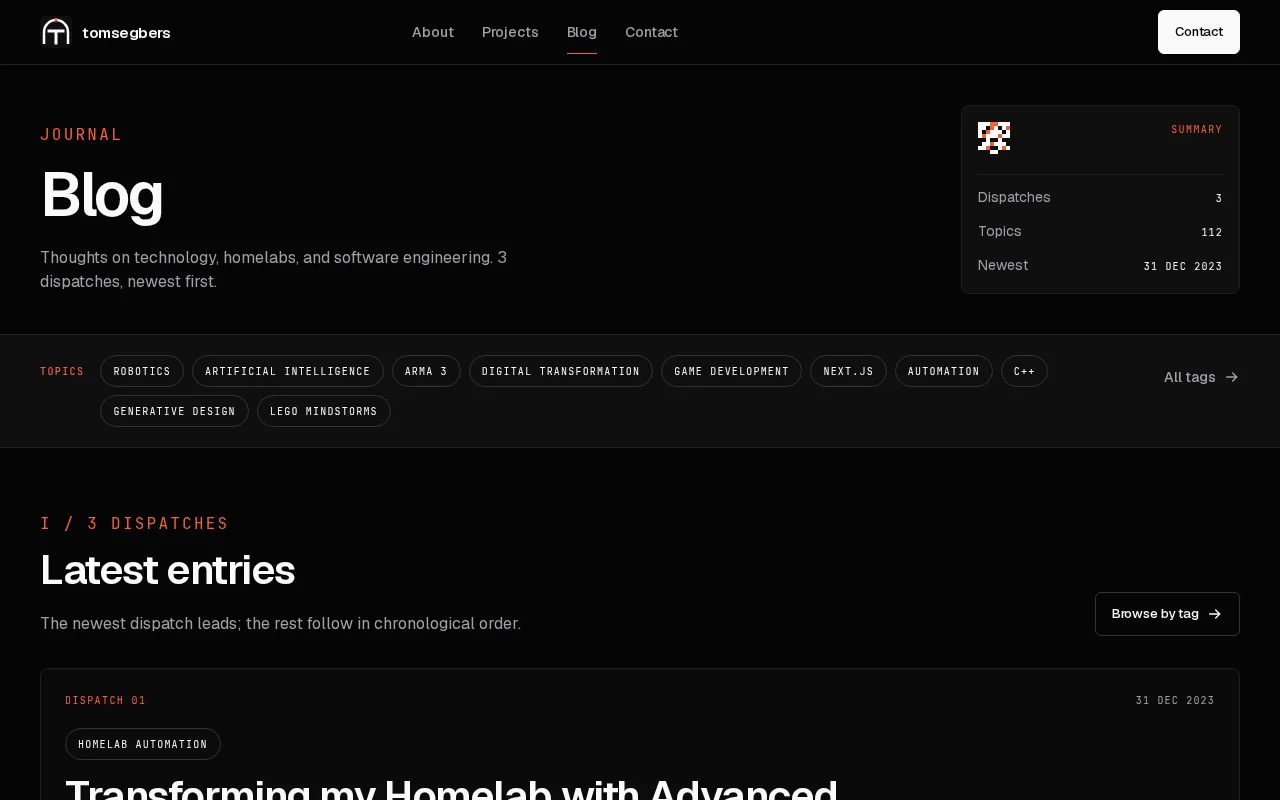
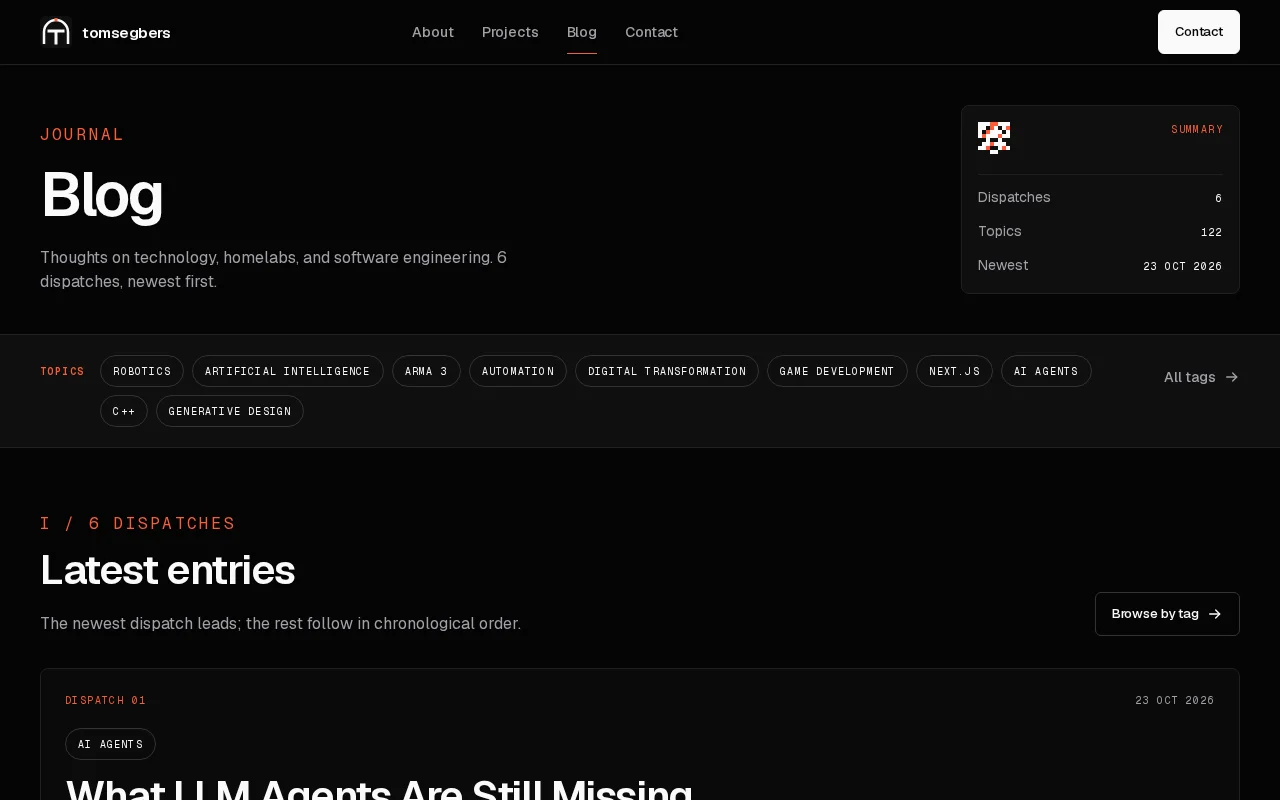
feat(blog): add three new dispatches

diff --git a/e2e/fixtures/expectations.ts b/e2e/fixtures/expectations.ts
@@ -78,7 +78,7 @@ export const COPY = {
 } as const
 
 /** Posts published under `content/blog/` (asserted as an exact count). */
-export const BLOG_POST_COUNT = 3
+export const BLOG_POST_COUNT = 6
 
 /** Project entries expected under `content/projects/` (asserted as a floor). */
 export const MIN_PROJECT_COUNT = 28

diff --git a/content/blog/2026-unraid-declarative-homelab-v4.md b/content/blog/2026-unraid-declarative-homelab-v4.md
@@ -1,0 +1,151 @@
+---
+id: 2026-unraid-declarative-homelab-v4
+title: "Unraid, Declaratively: The Fourth Homelab Iteration"
+articleDate: 2026-02-28
+articleContent: "Version four is not another stack of containers. It is a workflow for keeping Unraid's hand-edited state reviewable, testable, and recoverable without pretending the appliance is NixOS."
+authorName: Tom Segbers
+authorImgSrc: /img/logo.png
+tags:
+  - Unraid
+  - Homelab
+  - Infrastructure as Code
+  - Docker
+  - Home Assistant
+---
+
+# Unraid, Declaratively: The Fourth Homelab Iteration
+
+The fourth iteration of my homelab is not a bigger server. It is a smaller diff.
+
+The [second iteration](/blog/entry/2020-homelab-v2-the-evolution-of-my-homelab-journey-second-edition) was about learning what hardware could do. The [third](/blog/entry/2024-homelab-v2-transforming-homelab-with-advanced-automation) was about adding services: containers, storage, monitoring, automation, and enough moving parts to make a dashboard feel like progress.
+
+The fourth is about operating the result. Not adding another stack, but making the existing one reviewable, testable, and recoverable.
+
+That is harder than it sounds, because Unraid is an appliance, not a declarative operating system. You cannot point a flake at it and rebuild the array from a lock file. The web UI, the boot USB, the license, the disk assignments, and the array itself are part of the product. A lot of the server is deliberately stateful, and pretending otherwise is how people lose data.
+
+But a surprising amount of what makes the server mine is text. Docker Compose files, Docker XML templates, user scripts, and Home Assistant configuration can live in Git. So can the validation around them. The repository does not own the server. It owns the text that describes selected parts of it.
+
+## What “declarative” can mean on an appliance
+
+The useful distinction is between layers:
+
+- **The appliance layer:** Unraid itself, the array and parity, shares, the license, the boot USB, hardware passthrough, and the web UI. This stays manual and rare. It gets a runbook, not a fantasy.
+- **The text layer:** Compose projects, Docker XML templates, user scripts, and authored Home Assistant YAML. This belongs in Git, with reviewable changes and validation.
+- **The runtime layer:** appdata, databases, Home Assistant's `.storage`, logs, media, and VM disks. This gets backed up. It does not belong in a configuration repository.
+- **The secret layer:** server-side environment files and credentials. The repository records their shape, never their values.
+
+The repository layout reflects that split:
+
+```text
+configs/
+  docker-compose/   # one directory per Compose project
+  docker-templates/ # Unraid Docker XML templates
+  scripts/          # User Scripts
+  homeassistant/
+    desired/        # authored, pushable YAML
+    snapshot/       # generated from .storage, read-only
+```
+
+The Nix flake in this repository is easy to misunderstand. It does not make Unraid declarative. It packages the command-line tools and pins the versions used to inspect, validate, and sync the server. Nix is the workbench, not the appliance.
+
+That distinction matters. A declarative workflow is not a property of the operating system. It is a property of how you change it.
+
+## The loop: pull, edit, validate, dry-run, apply
+
+The workflow starts by pulling the current server state into the repository. The server may be newer than the last commit, and a local edit based on a stale copy is just a confident way to undo a change made since the last pull.
+
+```bash
+nix run .#backup
+nix run .#backup -- --check
+```
+
+`--check` is a dry run. It compares content with checksums and ignores owner, group, permissions, and timestamps, so a directory mtime cannot masquerade as drift. Only real file transfers and deletions count.
+
+Then I edit the text. A Compose image tag, a volume mapping, a script, a Home Assistant automation. The change is made in the repository, not first in the live UI. That is the part that turns a server into something I can review.
+
+Validation comes next:
+
+```bash
+nix flake check
+nix run .#scan -- --quiet
+```
+
+`nix flake check` runs the formatting check, parses every YAML file, validates each Compose project with `docker compose config` and dummy environment values, and checks the Home Assistant layout against its pinned version. `scan` runs a static security scan and checks pinned image versions for drift. Neither command proves the service will behave correctly, but they catch the boring failures before they reach the server.
+
+The push is deliberately two steps:
+
+```bash
+nix run .#update
+nix run .#update -- --apply
+```
+
+The first command is a dry run. The second one actually mirrors the repository to the server. Mirroring is the important word: `rsync --delete` removes files on the server when they disappear locally. That is what makes the repository a source of truth instead of an ever-growing pile of leftovers. It is also why the dry run is not a formality.
+
+Server-side `.env` files are excluded from the push. The repository carries `.env.example` files and placeholders; the real values stay on the server. Secrets are the one place where “the repo is the source of truth” would be actively dangerous.
+
+A deployment is not finished when `rsync` exits zero. It is finished when the service is healthy and the change is committed. Those are different claims, and the gap between them is where most homelab surprises live.
+
+## Home Assistant is its own problem
+
+Home Assistant is the clearest example of why “just put it in Git” is not a complete strategy. It is a UI-first system. The UI writes state into `.storage`, integrations own registries, and the YAML files are only part of the picture.
+
+The repository splits the problem in two:
+
+- `desired/` is authored configuration that can be pushed back.
+- `snapshot/` is generated from the live `.storage` registries and dashboards. It is read-only in the repository and must never be hand-edited.
+
+The commands follow that split:
+
+```bash
+nix run .#ha-check
+nix run .#ha-deploy
+nix run .#ha-deploy -- --apply
+nix run .#ha-drift
+nix run .#ha-pull
+```
+
+`ha-check` runs Home Assistant's own `check_config` against a staged copy of the authored configuration, using a throwaway secrets file. The live configuration directory is not touched. `ha-deploy` runs the same check before pushing and refuses to continue if it fails. `ha-drift` compares the live instance against the committed snapshot. `ha-pull` refreshes both sides.
+
+The snapshot is not a full backup of the Home Assistant database. It is a readable model of the parts that tend to drift: areas, entities, devices, dashboards, customizations, and resources. The database, secrets, custom components, and media remain runtime state and are outside this mirror.
+
+The most useful check is not a diff. It is a restore drill. A staged configuration, the sealed identity registries, and the real secrets are used to boot a throwaway Home Assistant container on a separate port. The drill waits for `check_config` to pass and for the frontend to answer. The live instance and its port are never touched.
+
+A backup you have never restored is a rumour. The drill is how the rumour becomes a fact.
+
+## Secrets and the mirror
+
+The mirror is intentionally incomplete.
+
+Server-side `.env` files stay on the server. Home Assistant `secrets.yaml` stays on the server. Private keys, runtime tokens, and anything that only exists to make a service start are outside the sync path. The repository contains examples and placeholders so the shape of the configuration is visible without exposing the values.
+
+That boundary has to be enforced by exclusion rules, not by memory. A mirror with `--delete` is a useful tool precisely because it is ruthless. The same quality makes it dangerous if a secret happens to live in the wrong directory.
+
+The rule I keep coming back to is simple: the repository should contain the decisions, not the keys.
+
+## What I would not put in Git
+
+Not every part of a homelab wants to be text.
+
+I would not try to manage the array assignments, the disk layout, the Unraid license, the boot USB, VM disk images, appdata databases, logs, media, TLS private keys, or runtime secrets from this repository. Some of that is too large. Some of it is too sensitive. Some of it is too specific to the machine.
+
+A repository that tries to own all of it becomes a backup system with worse ergonomics.
+
+The goal is not to make Unraid immutable. The goal is to make the mutable parts explainable.
+
+## What changed in version four
+
+The earlier iterations were about capability. This one is about boundaries.
+
+1. **Pull before push.** The server may know something the repository does not.
+2. **Dry-run by default.** Mirroring deletes. Review the plan before applying it.
+3. **Generated state is not source.** Snapshots and exports are evidence, not editing surfaces.
+4. **Secrets never enter the mirror.** The repo carries the shape, the server carries the value.
+5. **Validate with the same toolchain everywhere.** A local pass and a CI pass should not use different versions of the truth.
+6. **Test the restore, not just the backup.** A restore drill is maintenance.
+7. **Keep a manual runbook for the appliance layer.** Some things should stay deliberate.
+
+The result is not a server that never needs a web UI. I still use the UI. The difference is that when a change matters, I can explain where it came from, what it will touch, and how to put it back.
+
+“Declarative” is not a binary. It is a direction. On an appliance like Unraid, the honest version is a small, well-guarded text layer around a stateful core — enough structure to make the server reviewable, and enough humility to leave the rest alone.
+
+That is the fourth iteration. Not more services. A better way to change them.

diff --git a/content/blog/2025-falling-for-nix.md b/content/blog/2025-falling-for-nix.md
@@ -1,0 +1,117 @@
+---
+id: 2025-falling-for-nix
+title: "Falling for Nix: One Flake, Three Machines"
+articleDate: 2025-12-31
+articleContent: "I expected a package manager and found a way to describe three machines as one reviewable system. The learning curve was real; so was the payoff."
+authorName: Tom Segbers
+authorImgSrc: /img/logo.png
+tags:
+  - NixOS
+  - Nix
+  - Declarative Configuration
+  - Linux
+---
+
+# Falling for Nix: One Flake, Three Machines
+
+For a long time, setting up a machine was a test of memory.
+
+I knew which packages to install, which configuration files to edit, which service to enable, and which fix I had applied the last time something broke. The knowledge lived in shell history, browser bookmarks, and the part of my brain that wakes up when a laptop is misbehaving. It worked. It also meant every machine was a slightly different version of the same story.
+
+I did not start using Nix because I wanted a new hobby. I started because I wanted fewer surprises.
+
+By the end of 2025, my desktop, laptop, and home server are described by one flake. That sentence sounds modest. For me it is the biggest change in how I think about machines since I stopped installing Linux from scratch.
+
+## The first surprise: it is not just a package manager
+
+Nix is a package manager in the same way Git is a folder watcher. The package part is real, but it is not the interesting part.
+
+The interesting part is that a Nix expression describes a build, and a flake describes a whole system: inputs, packages, modules, users, services, and the small policy decisions that normally live in a wiki page nobody updates. The lock file pins the inputs. The build produces a closure. The machine activates a generation.
+
+The commands are almost disappointingly plain:
+
+```bash
+nix flake check
+sudo nixos-rebuild switch --flake .#<host>
+```
+
+The first command asks whether the description is internally consistent. The second makes the machine match it. The angle brackets are doing real work. I do not want a command that can accidentally target the wrong machine.
+
+The first week felt less like learning a tool and more like learning a new grammar. I copied snippets, misread option names, and hit evaluation errors that pointed at three files I had never opened. The error messages were the tutorial. I did not enjoy all of it.
+
+Then something clicked.
+
+## The mental model that finally made sense
+
+The old model was a sequence of actions: install this, edit that, enable the other thing, restart, hope.
+
+The Nix model is a set of facts: this machine has these packages, this service is enabled with this configuration, this user owns this file, this secret is available at activation, this is the version of nixpkgs the result was built against.
+
+Once I stopped trying to translate shell commands one-for-one, the errors became less mysterious.
+
+- A package is an input to a build, not a thing I install by hand.
+- A module is a policy, not a script.
+- A generation is a rollback point, not a victory lap.
+- A lock file is a boundary between “works today” and “worked in March.”
+
+That last one matters more than I expected. A flake does not promise that the world will never change. It promises that the change is explicit.
+
+## What one flake looks like for me
+
+I have three hosts: a desktop, a laptop, and a server. They share a baseline, and each one adds the parts that belong to its role. The desktop gets the graphical environment and the development tools. The laptop gets its hardware quirks and a newer kernel. The server gets the services and the storage. The differences are small enough to read in one sitting.
+
+The shared baseline is the important part. Firewall defaults, the user account, the shell, the time zone, the Nix settings, and the common system modules are defined once. A host file is a delta, not a photocopy.
+
+Home Manager handles the user layer. My shell, Git configuration, editor settings, terminal, browser policies, and a long list of small preferences are generated from modules. I have not edited my `.zshrc` by hand in months. I am not brave; the file is generated.
+
+DevShells turned out to be just as useful as the system configuration. A project can declare the compiler, formatter, language server, and command-line tools it expects. `direnv` loads the shell when I enter the directory. The same project gets the same toolchain on every machine, and a new machine does not need a separate install ritual before it can build anything.
+
+Secrets are handled with `sops-nix`. The encrypted material lives with the configuration; the private key lives on the machine; the secret is decrypted at activation and exposed at a path the service expects. That is not a claim that secrets are now risk-free. It is a claim that the boundary is visible and does not depend on a forgotten `.env` file in a home directory.
+
+A local binary cache made the rebuilds tolerable. Without it, the purity is real but so is the waiting. With it, a rebuild is usually a few minutes and sometimes less. This is the unglamorous part of the story: a good build graph still needs good infrastructure around it.
+
+## What I like now
+
+The first thing I like is that a change is reviewable. I can look at a diff and see that a package moved, a service option changed, or a module gained a new rule. A diff is a better memory than a terminal scrollback.
+
+The second is that a new machine is mostly a mapping exercise. The hardware file still comes from the machine, because hardware is stubborn and full of exceptions. Everything above that layer is a choice I can read, copy, and adjust. The first boot is not a blank page.
+
+The third is rollback. When a rebuild goes wrong, the previous generation is still there. That does not make me careless, but it does make the system feel less fragile. The escape hatch is part of the design, not an admission that the design failed.
+
+The fourth is development environments. I used to keep a mental list of tools for each project. Now the project keeps the list. That is a small change with a large effect on how often I wonder why a build behaves differently on another machine.
+
+The fifth is the quiet one: less folklore. When something breaks, I can point at a revision instead of a habit. When I want to know why a machine has a package, I can follow the module that put it there. The configuration is not perfect documentation, but it is a much better starting point than “I think I installed that in 2022.”
+
+## The cost is real
+
+I would not recommend Nix to someone who wants a faster way to install a browser. The learning curve is real, and it is steep in the places that matter.
+
+Nix has a lazy evaluation model, its own language, and error messages that occasionally read like a riddle. Packaging software can be straightforward, and it can also turn into an afternoon of reading upstream build scripts. Build times are better than they used to be, but they are not free. Stateful services still need care, because a database does not become declarative just because its configuration file does.
+
+I still use containers, imperative tools, and plain shell scripts where they fit. Declarative does not mean every byte of runtime state belongs in a Nix file. A configuration that pretends state does not exist is just a configuration that will fail later.
+
+The language is not the hard part forever. The hard part is learning where the boundaries are.
+
+## Rules I would give past me
+
+- Pin the inputs and upgrade them deliberately. “Latest” is not a strategy.
+- Keep modules small and single-purpose. A module called `desktop.nix` that does twelve unrelated things is a future incident.
+- Separate hardware facts from policy. Generated hardware files are not the place to express taste.
+- Use one host as the canary. Read the diff before rolling the change everywhere.
+- Keep plaintext secrets out of the repository and out of the Nix store.
+- Let evaluation fail. Do not `--impure` your way out of a design problem unless you can explain why the impurity is the point.
+- Learn the language. Copy-paste has a ceiling, and the ceiling arrives at the worst possible time.
+- Keep a known-good generation and a recovery path. Confidence is not a backup.
+- Do not declaratively manage data. Manage the system around it, then back the data up separately.
+
+## The part that surprised me
+
+I expected the win to be reproducibility. It is, but that is not the part I feel day to day.
+
+The part I feel is legibility. I can explain how a machine is put together without opening a drawer of old notes. I can hand a configuration to a future version of myself and expect it to make sense. I can change one thing without wondering which machine will disagree.
+
+Nix did not make me love configuration for its own sake. It made the machine legible.
+
+The best compliment I can give it is not that the setup is reproducible. It is that I no longer have to remember how it was made.
+
+That is a strange thing to fall in love with. It is also the first time my machines have felt like mine.

diff --git a/content/blog/2026-what-llm-agents-are-missing.md b/content/blog/2026-what-llm-agents-are-missing.md
@@ -1,0 +1,105 @@
+---
+id: 2026-what-llm-agents-are-missing
+title: "What LLM Agents Are Still Missing"
+articleDate: 2026-10-23
+articleContent: "The next step for LLM agents is not a better prompt. It is an operating environment with durable state, checkable outcomes, isolation, failure semantics, and human gates at the points that cannot be undone."
+authorName: Tom Segbers
+authorImgSrc: /img/logo.png
+tags:
+  - AI Agents
+  - LLM
+  - Software Engineering
+  - Automation
+---
+
+# What LLM Agents Are Still Missing
+
+The demos keep getting better.
+
+A model can read a repository, propose a patch, explain its reasoning, and recover from a failed test. On a short task it can look almost indistinguishable from a careful engineer. Then the task lasts three days, the context resets, two agents touch the same file, a test starts passing for the wrong reason, and the whole thing quietly falls apart.
+
+The failure is rarely one bad completion. It is the absence of everything around the completion: a place to keep state, a way to check the result, a boundary around the work, and a mechanism to stop.
+
+I am not arguing for more autonomy. I am arguing for a better environment for the autonomy we already have. The missing layer is not intelligence. It is an operating system for work — not a literal one, but a set of guarantees that lets an agent act without turning every mistake into a system-wide incident.
+
+## Durable state, not context
+
+A context window is a scratchpad. It is not a ledger.
+
+Long-running work needs state that survives the model: the goal, the constraints, the decisions already made, the plan, the current status, the open questions, the evidence, and the person or process that owns the next step. If a context reset erases the reason for a decision, the agent did not have memory. It had a monologue.
+
+The state also has to be inspectable. A vendor session is not a filing cabinet. If the only record of the work is a chat transcript, the work cannot be audited, handed off, replayed, or resumed without dragging the entire conversation along. Externalized state is what makes a long task a project instead of a very long prompt.
+
+## Checkable outcomes, not confident prose
+
+Agents are very good at sounding finished. That is not the same as being finished.
+
+A real completion should come with a check: a test that passes, a build that exits zero, a diff that matches the requested change, an artifact that exists, a measurement inside its budget. Where judgment is required, the check should route to a human instead of pretending to be objective.
+
+The useful question is not “did the agent say it finished?” It is “what can I run to disagree?”
+
+Evidence should belong to the task, not be buried somewhere in the transcript. “I did it” and “it works” are different claims. A system that cannot separate them will produce a lot of confident work that nobody can trust.
+
+## Decomposition with dependencies
+
+A long task is not a single prompt. It is a graph.
+
+Each node needs a scope, an acceptance criterion, its dependencies, its owner, and a state. Without that graph, agents do the same work twice, block on something they cannot see, skip the part that was hard to specify, or declare a partial result complete because the next step was not written down.
+
+Decomposition is not project-management theatre. It is how an agent knows what not to do yet.
+
+The node has to be small enough to verify and large enough to matter. It also needs scheduling rules: what is ready, how much work may run at once, which files are owned by which task, and what happens when two tasks collide. A frontier without a WIP limit is just a queue for a distributed accident.
+
+## Isolation and concurrency
+
+Agents need a place to work that is not the shared, live system.
+
+That means separate checkouts or worktrees, explicit file ownership, sandboxed execution, and a merge discipline that does not depend on everyone being polite. Two agents editing the same file is not collaboration. It is a race condition.
+
+Isolation also applies to permissions. An agent should not inherit every secret, every network route, and every write capability just because it runs on the same machine as the person who asked for help. Least privilege is not a lack of trust. It is what makes it safe to delegate.
+
+## Failure semantics and time
+
+An agent needs to know the difference between “still working” and “stuck.”
+
+That requires heartbeats, timeouts, stall detection, retries with a limit, and an escalation path. A loop that retries forever is not persistence. It is a way to spend money without learning anything.
+
+Every bounded task should also have a budget: tokens, time, compute, or human attention. When the budget is exhausted, the agent should stop, summarize what it tried, and hand back a diagnosis. The exit is part of the design, not an admission that the agent failed.
+
+## Human governance at irreversible edges
+
+Autonomy is not a binary. It is a set of permissions, and those permissions should expand with reversibility.
+
+An agent can be trusted to draft, test, and stage. It should need a human before deleting data, spending money, publishing to the world, rotating credentials, or making a promise to another person. The human belongs in the loop at the points where the loop cannot undo itself.
+
+That also means an audit trail. Who approved the action, what changed, and why. Governance is not a meeting. It is a set of gates placed where the consequences are real.
+
+## Evaluation and replay
+
+You cannot improve what you cannot replay.
+
+A useful agent system records the inputs, the tool calls, the decisions, the outputs, and the cost. Not because every trace needs to be read, but because the important ones need to be reconstructed when something goes wrong.
+
+Benchmarks test models. Operations test systems. The second category needs regression tasks, failure drills, and a kill switch. A demo is one sample. Production is a distribution.
+
+The metrics should reflect the work, not the theater: completion rate, rework, intervention rate, time to verify, cost per completed task. In many settings, interventions per completed task may be the most honest measure of whether the agent is actually helping.
+
+## Economics and portability
+
+Agents consume tokens, time, compute, and human attention. All of those are finite.
+
+A task should know what it is allowed to spend, and a scheduler should be able to choose between competing tasks instead of running every loop at once. The economics are not a billing detail. They determine which work is worth delegating.
+
+The state should also be portable. Prompts, skills, task definitions, and evidence should be exportable, versioned, and readable without the original vendor. Models will change. The work should not be held hostage by the session that produced it.
+
+## The test
+
+Here is the test I keep coming back to:
+
+Can an agent take a multi-day task, survive a context reset, explain why it changed course, prove that it finished, and hand the work to another agent or a human without a meeting?
+
+If the answer is no, we have a clever assistant, not a system that can be trusted with real work.
+
+The next breakthrough may look less like a model and more like a boring set of interfaces: a ledger, a scheduler, a sandbox, a gate. Intelligence is necessary. It is not sufficient.
+
+The missing layer is the world around the model — the part that remembers, checks, bounds, and says no.
